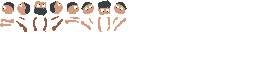
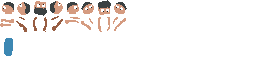
errr. particles?

Changed region(s): [[0.0, 0.5938, 0.0625, 0.875]]

diff --git a/scripts/screens/MainScreen.js b/scripts/screens/MainScreen.js
@@ -16,18 +16,18 @@
 				[1,1,1,1,1,1,1,1,1,1,1,1,1,1,1,1,1,1,1,1,1,1,1,1,1,1,1,1,1,1],
 				[1,0,0,0,0,0,0,0,0,0,0,0,0,0,0,0,0,0,0,0,0,0,0,0,0,0,0,0,0,1],
 				[1,0,0,0,0,0,0,0,0,0,0,0,0,0,0,0,0,0,0,0,0,0,0,0,0,0,0,0,0,1],
-				[1,0,0,0,0,0,0,0,0,2,0,0,0,0,0,0,0,0,0,0,0,0,0,0,2,0,0,0,0,1],
+				[1,0,0,0,0,0,0,0,0,4,0,0,0,0,0,0,0,0,0,0,0,0,0,0,2,0,0,0,0,1],
 				[1,0,0,0,0,0,0,0,0,0,0,0,0,0,0,0,0,0,0,0,0,0,0,0,0,0,0,0,0,1],
 				[1,0,0,0,0,0,0,2,0,0,0,0,3,3,0,0,0,0,0,0,0,0,2,0,0,0,0,3,3,1],
 				[1,0,2,0,0,0,2,3,2,0,0,0,0,0,0,0,0,2,0,0,0,2,3,2,0,0,0,0,0,1],
-				[1,1,1,1,1,1,1,1,1,1,1,1,1,1,0,0,0,1,1,0,1,1,1,1,1,1,1,1,1,1],
-				[1,0,0,0,0,0,0,0,0,0,0,0,0,1,0,0,0,1,0,0,0,0,0,0,0,0,0,0,0,1],
-				[1,0,0,0,0,0,0,0,0,0,0,1,1,1,1,0,0,1,1,1,0,0,0,0,0,0,0,0,0,1],
-				[1,0,0,0,0,0,0,0,0,0,0,0,0,0,0,0,0,0,0,0,1,1,0,0,0,0,0,0,0,1],
-				[1,0,0,0,0,0,0,0,0,2,0,0,0,0,0,0,0,0,0,0,0,0,0,0,2,0,0,0,0,1],
-				[1,0,0,0,0,0,0,0,0,0,0,0,0,0,0,0,0,0,0,0,0,0,0,0,0,0,0,0,0,1],
-				[1,0,0,0,0,0,0,2,0,0,0,0,3,3,0,0,0,0,0,0,0,0,2,0,0,0,0,3,3,1],
-				[1,0,2,0,0,0,2,3,2,0,0,0,0,0,0,1,0,2,0,0,0,2,3,2,0,0,0,0,0,1],
+				[1,1,2,3,1,2,3,1,2,3,1,2,3,1,0,0,0,1,1,0,1,1,1,1,1,1,1,5,1,1],
+				[1,0,0,0,0,0,0,0,0,0,0,0,0,1,0,0,0,1,0,0,0,0,0,0,0,0,0,5,0,1],
+				[1,0,0,0,0,0,0,0,0,0,0,1,1,1,1,0,0,1,1,1,0,0,0,0,0,0,0,5,0,1],
+				[1,0,0,0,0,0,0,0,0,0,0,0,0,0,0,0,0,0,0,0,1,1,0,0,0,0,0,5,0,1],
+				[1,0,0,0,0,0,0,0,0,4,0,0,0,0,0,0,0,0,0,0,0,0,0,0,2,0,0,5,0,1],
+				[1,0,0,0,0,0,0,0,0,0,0,0,0,0,0,0,0,0,0,0,0,0,0,0,0,0,0,5,0,1],
+				[1,0,0,0,0,0,0,4,0,0,0,0,3,3,0,0,0,0,0,0,0,0,2,0,0,0,0,3,3,1],
+				[1,0,2,0,0,0,2,3,2,0,0,0,0,0,0,1,0,4,0,0,0,2,3,2,0,0,0,0,0,1],
 				[1,1,1,1,1,1,1,1,1,1,1,1,1,1,1,1,1,1,1,1,1,1,1,1,1,1,1,1,1,1]
 			]);
 
@@ -57,7 +57,7 @@
 
 			var c = gfx.ctx;
 
-			c.fillStyle = "hsl(120, 10%, 65%)";
+			c.fillStyle = "hsl(120, 3%, 0%)";
 			c.fillRect(0, 0, gfx.w, gfx.h);
 
 			this.camera.render(gfx, [this.painted, this.player]);

diff --git a/scripts/entities/Player.js b/scripts/entities/Player.js
@@ -30,6 +30,8 @@
 			this.speed = 3;
 			this.headAt = 0;
 
+			this.particle = new Ω.Particle({});
+
 			// this.anims = new Ω.Anims([
 			// 	new Ω.Anim("idle", this.sheet, 500, [[8, 0], [9, 0]]),
 			// ]);
@@ -79,6 +81,9 @@
 					y1 += this.speed;
 				}
 
+			}
+			if (Ω.input.pressed("fire")) {
+				this.particle.play(this.x + (this.w / 2), this.y + 10, this.angle);
 			}
 			if (Ω.input.isDown("fire")) {
 				//this.yPow = -10;
@@ -141,6 +146,7 @@
 					y: oy
 				});
 
+			this.angle = angle;
 			this.headAt = (angle / (2 * Math.PI / 8) | 0) + 3;
 
 			var hit = Ω.rays.cast(
@@ -158,6 +164,8 @@
 					hit.y * this.map.sheet.h]);
 				this.screen.paint(hit.x * this.map.sheet.w, hit.y * this.map.sheet.h, angle, powpow);
 			}
+
+			this.particle.tick(angle);
 
 			this.powpow  = powpow;
 
@@ -180,14 +188,20 @@
 				this.rays.forEach(function (r) {
 					Ω.rays.draw(gfx, r[0], r[1], r[2], r[3], r[4], 32, 32);
 				});
-
 			//}*/
 
 			gfx.ctx.fillStyle = "hsla(200, 50%, 50%, 0.8)";
-			gfx.ctx.fillRect(this.x, this.y, this.w, this.h);
+			//gfx.ctx.fillRect(this.x, this.y, this.w, this.h);
 
 			this.sheets["heads"].render(gfx, this.headAt, 0, this.x + 2, this.y - 10);
+
+			this.sheets["heads"].render(gfx, 0, 2, this.x + 1, this.y - 1);
+			this.sheets["heads"].render(gfx, 0, 3, this.x +1, this.y + 15);
+			this.sheets["heads"].render(gfx, 2, 1, this.x +1, this.y + 20);
+
 			this.sheets["heads"].render(gfx, this.headAt, 1, this.x + 2, this.y + (this.headAt > 0 && this.headAt < 4 ? -5 : 5));
+
+			this.particle.render(gfx);
 
 		}
 

diff --git a/lib/Ω/effects/Particle.js b/lib/Ω/effects/Particle.js
@@ -22,19 +22,19 @@
 
 		},
 
-		play: function (x, y) {
+		play: function (x, y, angle) {
 
 			this.life = this.maxLife;
 			this.x = x;
 			this.y = y;
 			this.running = true;
 			this.particles.forEach(function (p) {
-				p.reset();
+				p.reset(angle);
 			});
 
 		},
 
-		tick: function () {
+		tick: function (angle) {
 
 			if (!this.running) {
 				return;
@@ -43,7 +43,9 @@
 			this.life -= 1;
 
 			this.particles.forEach(function (p) {
-				p.tick();
+				if(!p.tick()){
+					// restart with angle
+				};
 			});
 
 			if (this.life < 0) {
@@ -75,23 +77,22 @@
 		this.y = 0;
 		this.w = 4;
 		this.h = 4;
-		this.xSpeed = Math.random() * 2 - 1;
-		this.ySpeed = Math.random() * 2 - 1 - 1;
 	}
 	Part.prototype = {
 
-		reset: function () {
+		reset: function (angle) {
 			this.life = this.parent.maxLife;
 			this.x = 0;
 			this.y = 0;
-			this.xSpeed = Math.random() * 2 - 1;
-			this.ySpeed = Math.random() * 2 - 1 - 3;
+
+			this.xSpeed = Math.cos(angle) * (2 + (Math.random() * 2));
+			this.ySpeed = Math.sin(angle) * (2 + (Math.random() * 2));
 		},
 
 		tick: function () {
 			this.x += this.xSpeed;
 			this.y += this.ySpeed;
-			this.ySpeed += 0.2;
+			return this.life -= 1;
 		},
 
 		render: function (gfx, x, y) {

diff --git a/css/main.css b/css/main.css
@@ -10,7 +10,7 @@ body {
   	-ms-user-select: none;
   	user-select: none;
 
-  	cursor: url("../res/pointer.png"), auto;
+  	cursor: crosshair;/*url("../res/pointer.png"), auto;*/
 }
 
 section {

diff --git a/scripts/entities/Paint.js b/scripts/entities/Paint.js
@@ -1,9 +1,11 @@
 (function (Ω) {
 	"use strict";
 
-	var Paint = {
+	var Paint = Ω.Entity.Extend({
 
-	}
+
+
+	});
 
 	window.Paint = Paint;
 }(Ω));
